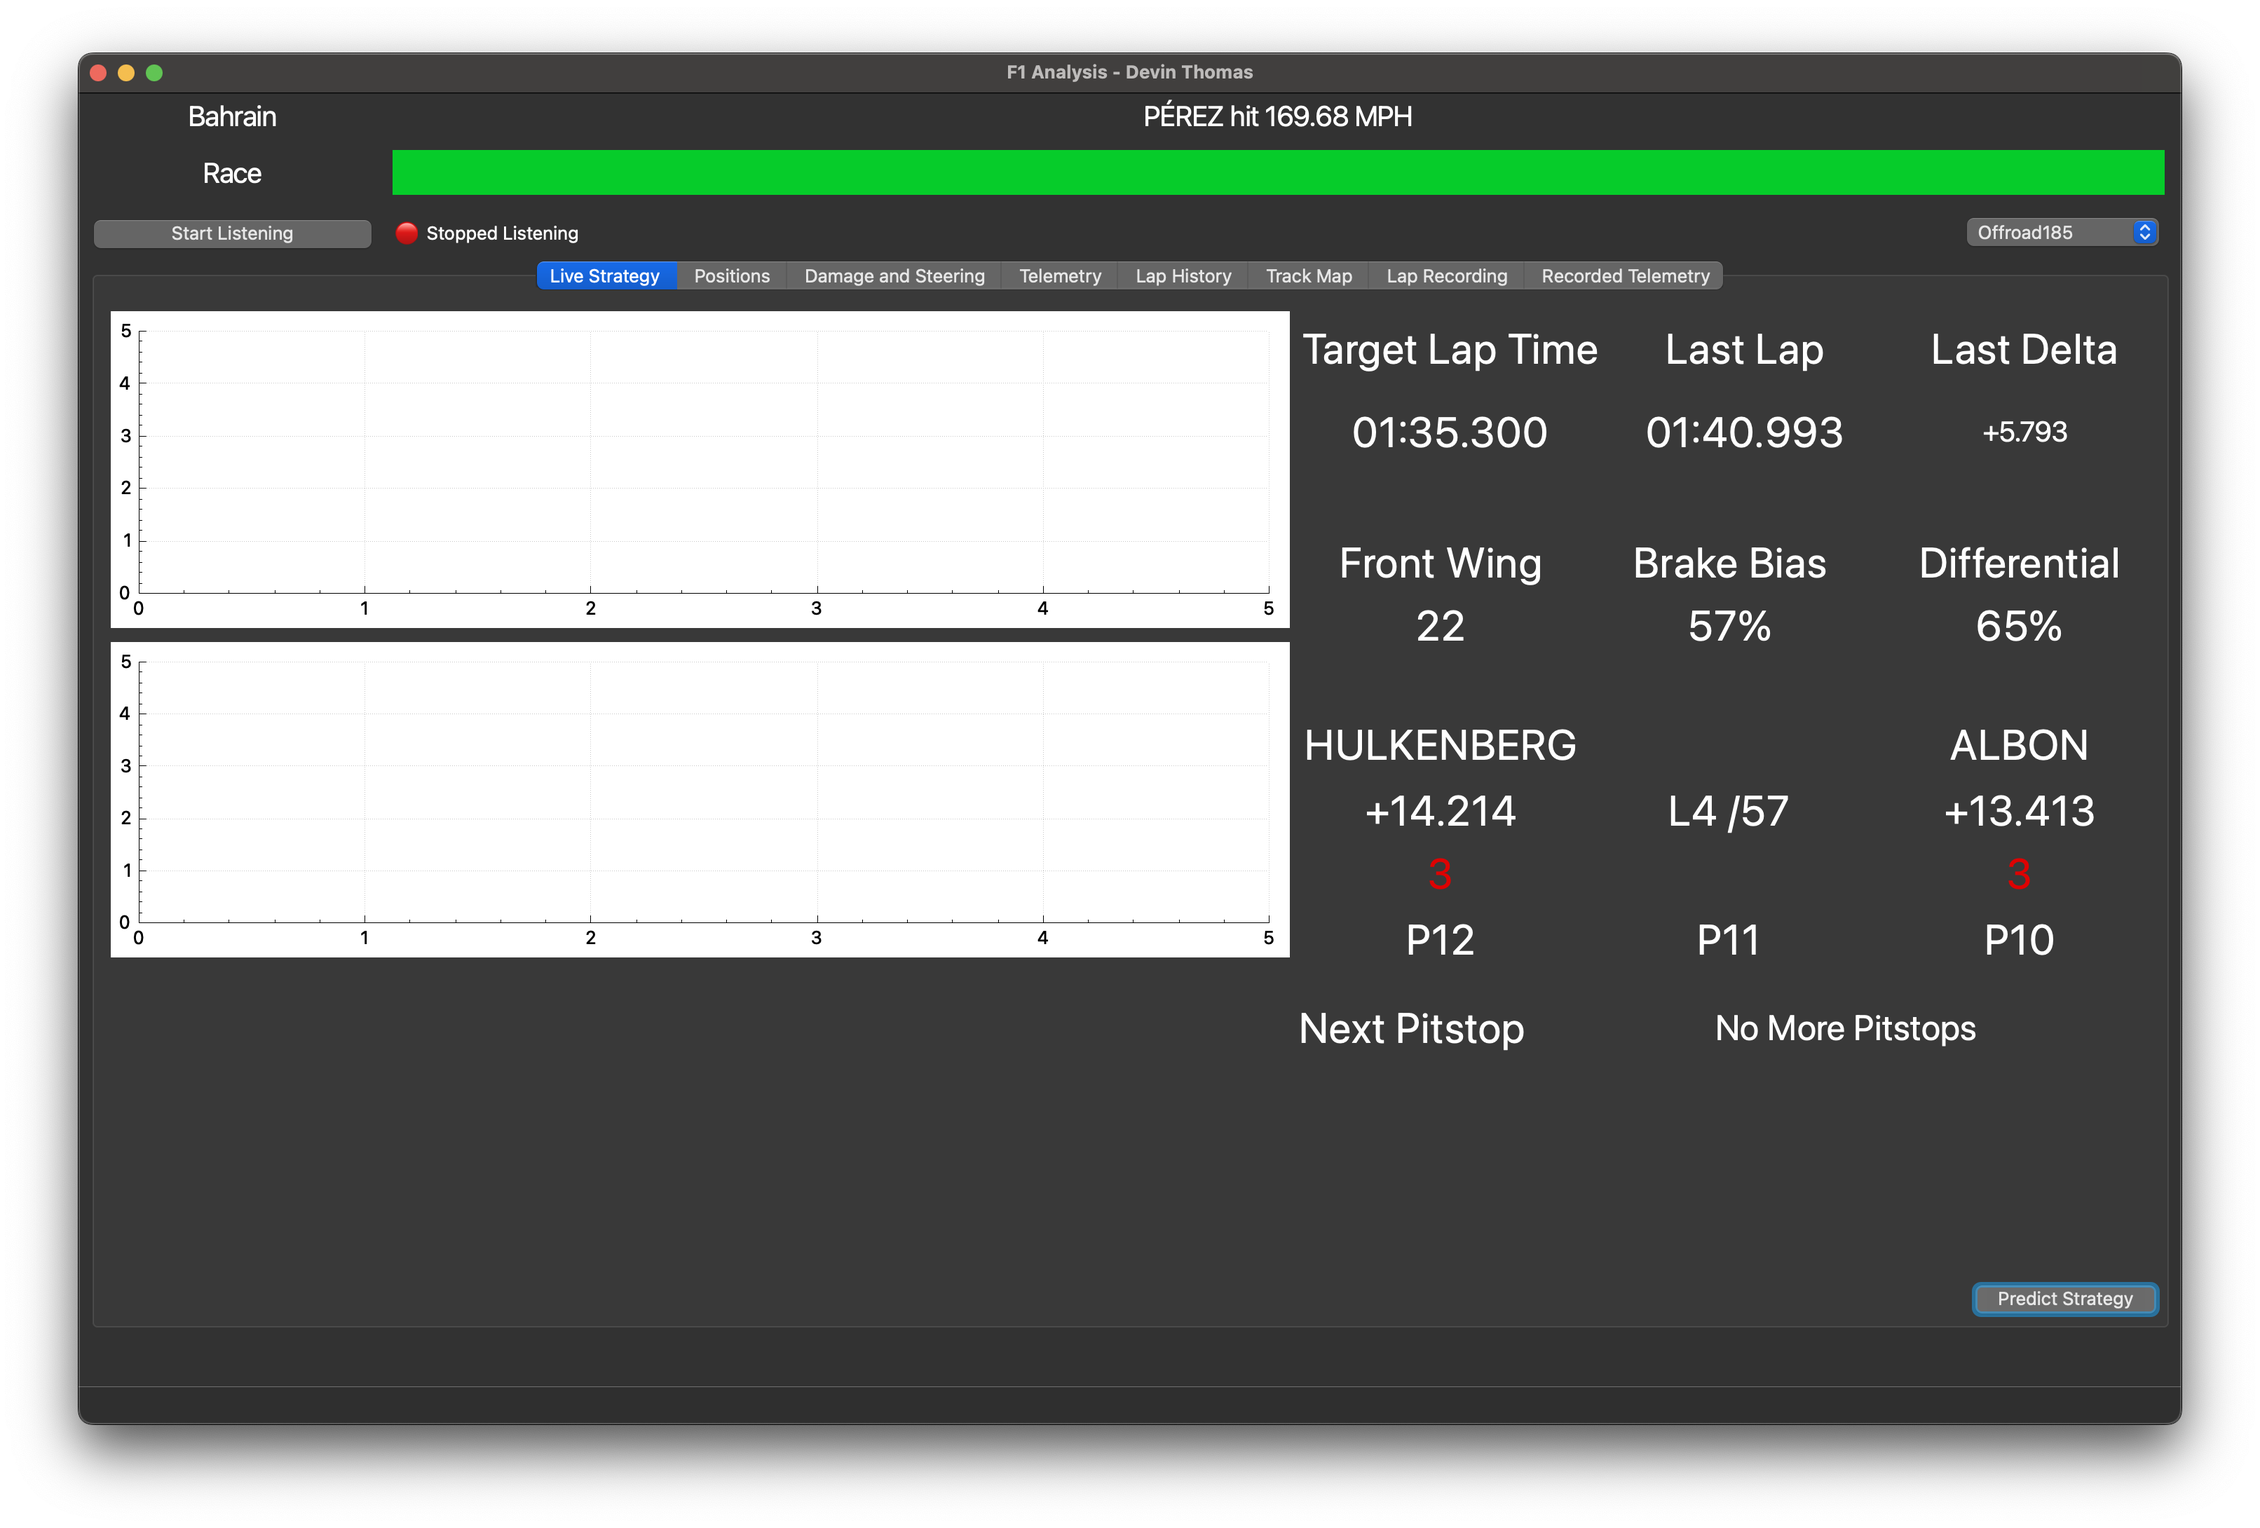
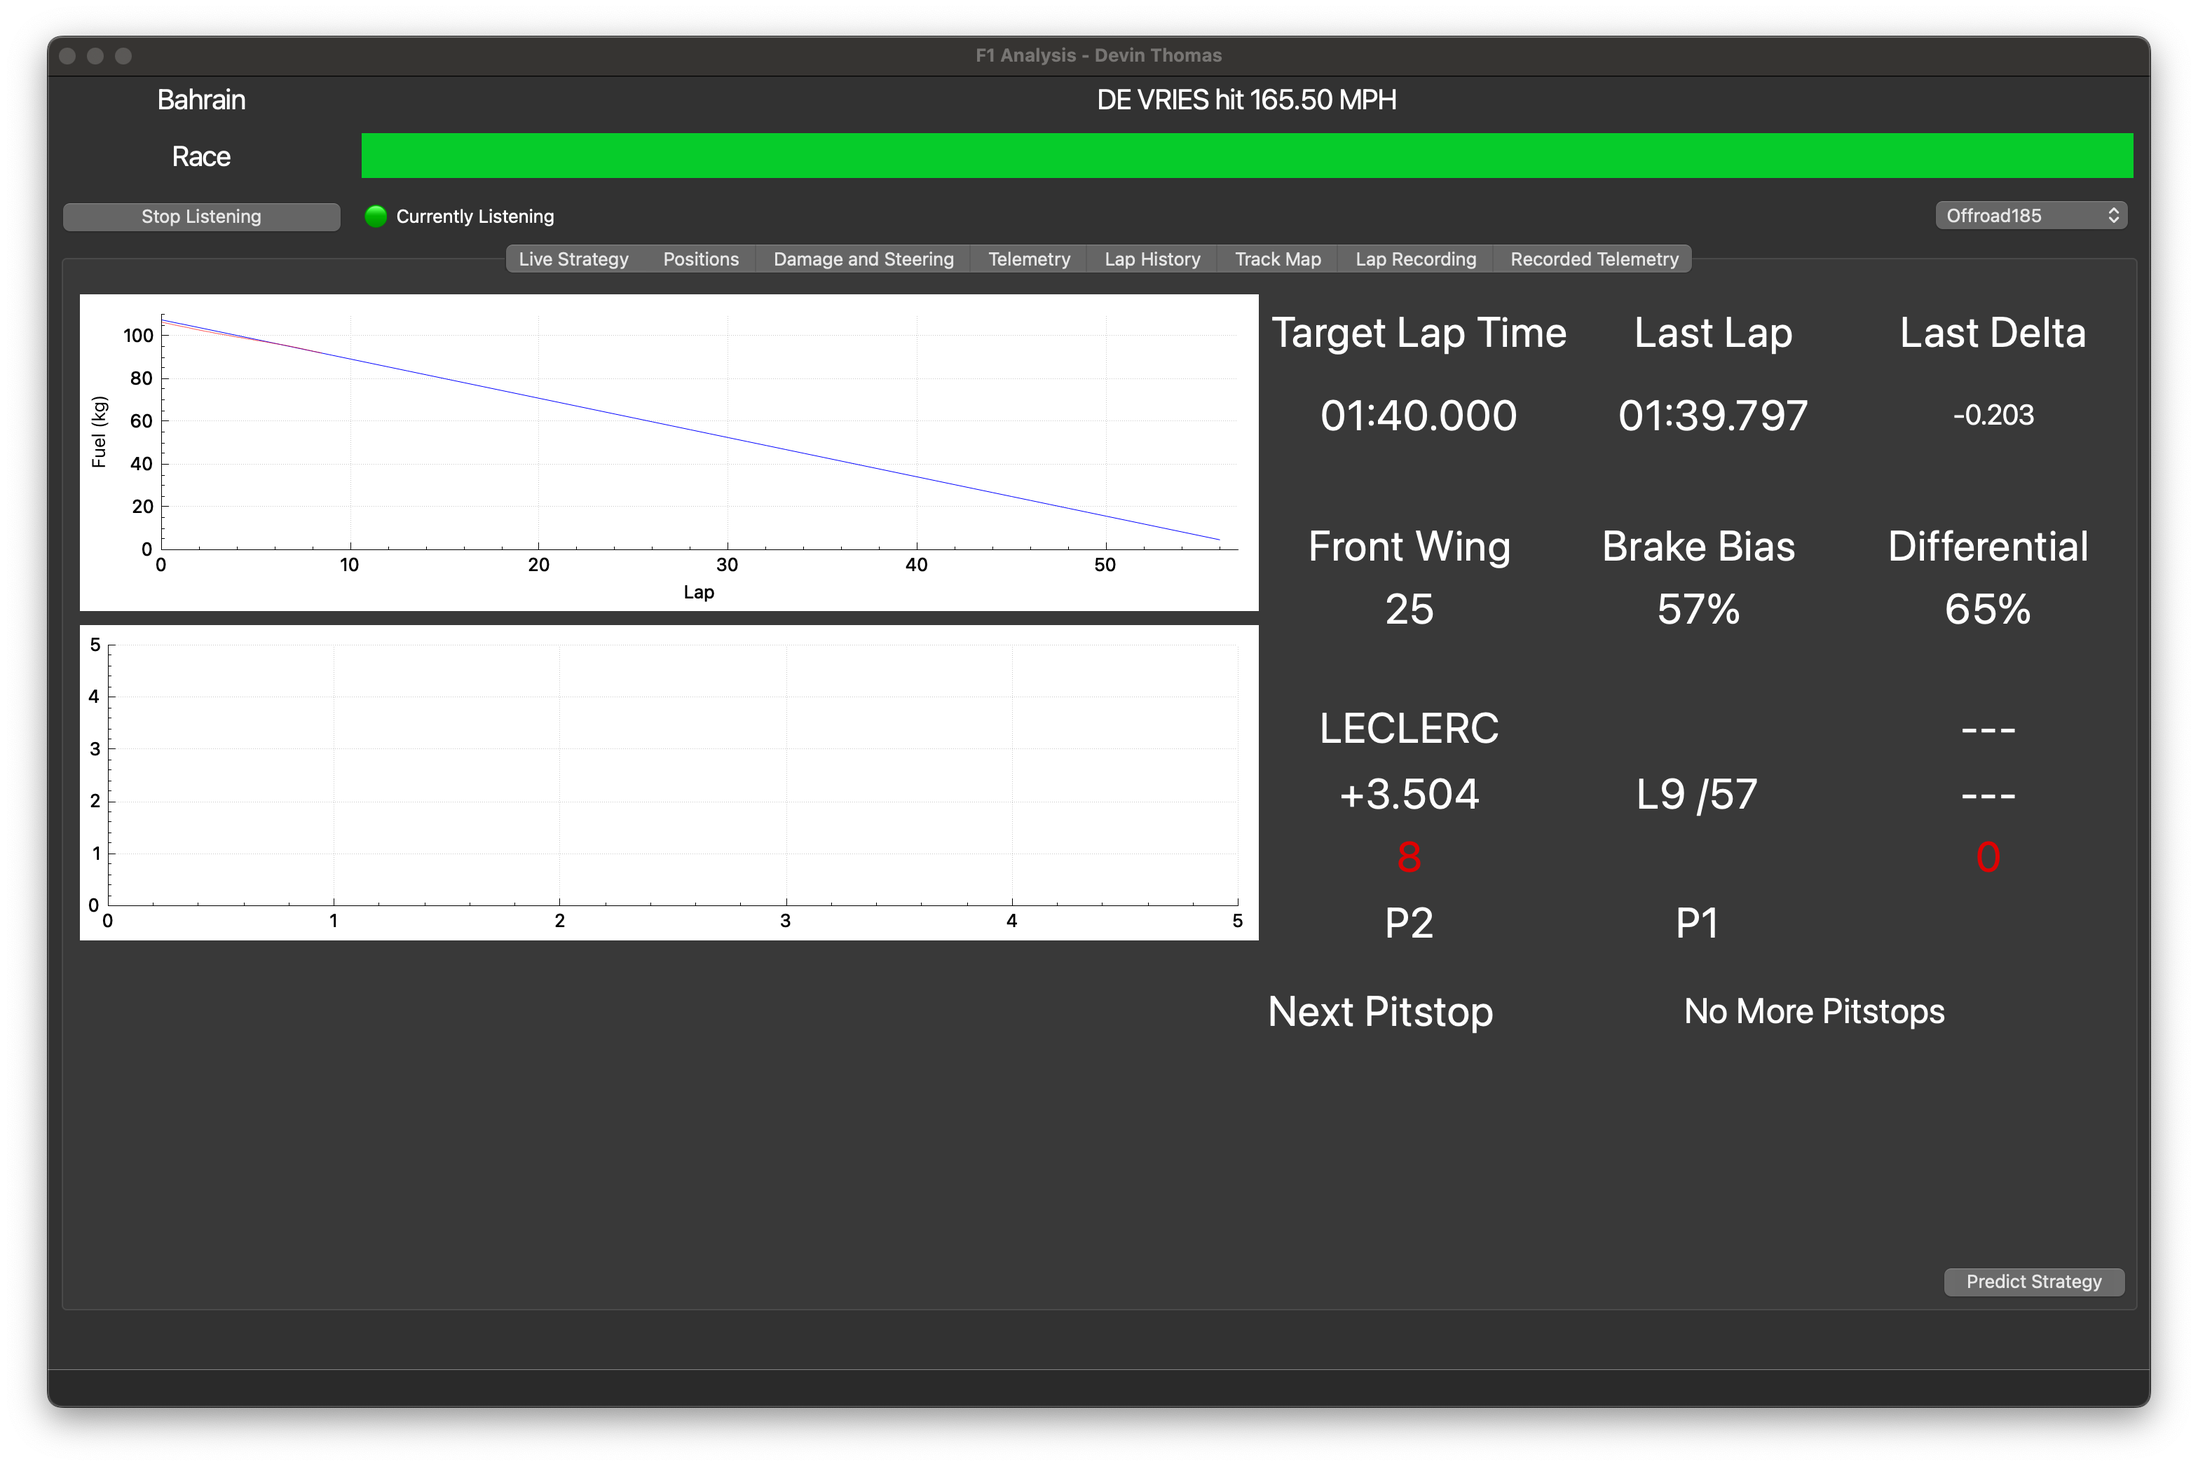
Add fuel prediction and usage plotting

diff --git a/race_strategy_prediction.cpp b/race_strategy_prediction.cpp
@@ -1,5 +1,8 @@
 #include "race_strategy_prediction.hpp"
+#include "analysis.hpp"
 #include "packets.hpp"
+
+#define MINIMUM_FUEL_LEVEL 3
 
 RaceStrategyPredictor::RaceStrategyPredictor(QObject *parent)
     : QObject{parent}
@@ -7,38 +10,112 @@ RaceStrategyPredictor::RaceStrategyPredictor(QObject *parent)
 
 }
 
-void RaceStrategyPredictor::predictStrategy(RaceWeekend raceWeekend) {
-    currentStrategy = {
-        .currentLapNumber = currentLapNumber,
-        .perLapStrategy = {
-            {
-                .actualLapTimeMS = 0,
-                .targetLapTimeMS = 95000,
+void RaceStrategyPredictor::predictStrategy(RaceWeekend raceWeekend, uint8_t raceLaps) {
+    totalRacingLaps = raceLaps;
+
+    // Initialise current strategy;
+    currentStrategy.totalRacingLaps = totalRacingLaps;
+    currentStrategy.currentLapNumber = currentLapNumber;
+    for (int i = 0; i < totalRacingLaps; i++) {
+        currentStrategy.perLapStrategy.push_back({
+            .actual = {
+                .lapTimeMS = 0,
+                .fuelInTank = 0,
                 .tyreCompound = ActualTyreCompound::C1,
             },
-            {
-                .actualLapTimeMS = 0,
-                .targetLapTimeMS = 95100,
+            .predicted = {
+                .lapTimeMS = 0,
+                .fuelInTank = 0,
                 .tyreCompound = ActualTyreCompound::C1,
-            },
-            {
-                .actualLapTimeMS = 0,
-                .targetLapTimeMS = 95200,
-                .tyreCompound = ActualTyreCompound::C2,
-            },
-            {
-                .actualLapTimeMS = 0,
-                .targetLapTimeMS = 95300,
-                .tyreCompound = ActualTyreCompound::C2,
-            },
-            {
-                .actualLapTimeMS = 0,
-                .targetLapTimeMS = 95400,
-                .tyreCompound = ActualTyreCompound::C2,
-            },
+            }
+        });
+    }
+
+
+//    mockPredictStrategy(raceWeekend);
+    simplePredictStrategy(raceWeekend);
+
+    strategyInitialised = true;
+
+    emit StrategyUpdate(currentStrategy);
+}
+
+void RaceStrategyPredictor::mockPredictStrategy(RaceWeekend raceWeekend) {
+    currentStrategy.perLapStrategy[0] = {
+        .actual = {
+            .lapTimeMS = 0,
+            .fuelInTank = 0,
+            .tyreCompound = ActualTyreCompound::C1,
+        },
+        .predicted = {
+            .lapTimeMS = 110000,
+            .fuelInTank = 10,
+            .tyreCompound = ActualTyreCompound::C1,
+        },
+    };
+
+    currentStrategy.perLapStrategy[1] = {
+        .actual = {
+            .lapTimeMS = 0,
+            .fuelInTank = 0,
+            .tyreCompound = ActualTyreCompound::C1,
+        },
+        .predicted = {
+            .lapTimeMS = 97000,
+            .fuelInTank = 9,
+            .tyreCompound = ActualTyreCompound::C2,
         }
     };
-    strategyInitialised = true;
+}
+
+void RaceStrategyPredictor::simplePredictStrategy(RaceWeekend raceWeekend) {
+
+    // Determine degradation and fuel usage for each race simulation stint generated across all practice sessions
+    std::vector<float> predictedFuelRegressions;
+
+    Practice practices[3] = {
+        raceWeekend.race_sessions().fp1(),
+        raceWeekend.race_sessions().fp2(),
+        raceWeekend.race_sessions().fp3(),
+    };
+
+    // For each practice
+    for (auto practice : practices) {
+        // For each race simulation stint
+        for (int i = 0; i < practice.race_simulation_size(); i++) {
+            Stint raceSimulation = practice.race_simulation()[i];
+
+            std::vector<double>fuelUsageValues;
+            std::vector<double>tyreDegradationValues;
+            std::vector<double>lapDistanceValues;
+
+            float l = 0; // l represents the total distance travelled in the stint
+
+            // For each lap in the stint
+            for (Lap lap : raceSimulation.lap()) {
+                // For all telemetry in the lap
+                for (Telemetry t : lap.telemetry()) {
+                    fuelUsageValues.push_back(t.fuel_in_tank());
+                    tyreDegradationValues.push_back(t.rear_left_tyre_damage());
+                    lapDistanceValues.push_back(l + t.lap_distance());
+                }
+                l += raceWeekend.track_length();
+            }
+
+            LinearRegressionResult predictedFuelRegression = calculateLinearRegression(lapDistanceValues, fuelUsageValues);
+            LinearRegressionResult tyreRegression = calculateLinearRegression(lapDistanceValues, tyreDegradationValues);
+
+            // Negate to keep value as amount of fuel used per lap
+            predictedFuelRegressions.push_back(- predictedFuelRegression.gradient * raceWeekend.track_length());
+        }
+    }
+
+    float averageFuelRegression = std::accumulate(predictedFuelRegressions.begin(), predictedFuelRegressions.end(), 0.0) / predictedFuelRegressions.size();
+
+    for (int i = 0; i < totalRacingLaps; i++) {
+        currentStrategy.perLapStrategy[i].predicted.fuelInTank = averageFuelRegression * (totalRacingLaps - i) + MINIMUM_FUEL_LEVEL;
+        currentStrategy.perLapStrategy[i].predicted.lapTimeMS = 100000;
+    }
 }
 
 void RaceStrategyPredictor::updateStrategy() {
@@ -62,7 +139,7 @@ void RaceStrategyPredictor::handleLapPacket(const PacketData &packet) {
     // Change of lap number
     if (ld.currentLapNum != currentLapNumber) {
         if (currentLapNumber > 0) {
-            currentStrategy.perLapStrategy[currentLapNumber - 1].actualLapTimeMS = ld.lastLapTimeInMS;
+            currentStrategy.perLapStrategy[currentLapNumber - 1].actual.lapTimeMS = ld.lastLapTimeInMS;
         }
 
         currentLapNumber = ld.currentLapNum;

diff --git a/mainwindow.cpp b/mainwindow.cpp
@@ -171,7 +171,15 @@ void MainWindow::setupPlots() {
     // Fuel Usage
     ui->pltFuelUsage->addGraph();
     ui->pltFuelUsage->yAxis->setLabel("Fuel (kg)");
-//    ui->pltFuelUsage->yAxis->setRange(0, 110);
+    ui->pltFuelUsage->yAxis->setRange(0, 110);
+
+    // Fuel Usage Strategy
+    ui->pltFuelUsageStrategy->addGraph();
+    ui->pltFuelUsageStrategy->yAxis->setLabel("Fuel (kg)");
+    ui->pltFuelUsageStrategy->xAxis->setLabel("Lap");
+    ui->pltFuelUsageStrategy->yAxis->setRange(0, 110);
+    ui->pltFuelUsageStrategy->addGraph();
+    ui->pltFuelUsageStrategy->graph(1)->setPen(QPen(Qt::red));
 
     // Tyre Degradation
     ui->pltTyreDegradation->addGraph();
@@ -971,14 +979,22 @@ void MainWindow::onDriverAheadAndBehindUpdate(LiveStrategyData liveStrategyData)
     ui->lblDriverBehindPosition->setText(QString::fromStdString(liveStrategyData.driverBehindPosition));
     ui->lblLastLapTimeStrategy->setText(QString::fromStdString(liveStrategyData.lastLap));
     ui->lblCurrentPositionStrategy->setText(QString::fromStdString(liveStrategyData.currentPosition));
+
+
+    fuelUsageStrategyPlotValues.append(liveStrategyData.fuelInTank);
+    lapStrategyPlotValues.append(liveStrategyData.lapDistance / trackLength);
+
+    ui->pltFuelUsageStrategy->graph(1)->setData(lapStrategyPlotValues, fuelUsageStrategyPlotValues);
+    ui->pltFuelUsage->rescaleAxes();
+    ui->pltFuelUsageStrategy->replot();
 }
 
 void MainWindow::onStrategyUpdate(Strategy newStrategy) {
-    ui->lblCurrentLapNumberStrategy->setText(QString::fromStdString("L" + std::to_string(newStrategy.currentLapNumber) + " /" + std::to_string(totalLaps)));
-    ui->lblTargetLapTimeStrategy->setText(QString::fromStdString(formatLapTimeMS(newStrategy.perLapStrategy[newStrategy.currentLapNumber - 1].targetLapTimeMS)));
+    ui->lblCurrentLapNumberStrategy->setText(QString::fromStdString("L" + std::to_string(newStrategy.currentLapNumber) + " /" + std::to_string(newStrategy.totalRacingLaps)));
+    ui->lblTargetLapTimeStrategy->setText(QString::fromStdString(formatLapTimeMS(newStrategy.perLapStrategy[newStrategy.currentLapNumber - 1].predicted.lapTimeMS)));
 
     // Delta of last lap to last lap target - must be at least on 2nd lap
-    if (newStrategy.currentLapNumber >= 2) ui->lblDeltaTimeStrategy->setText(QString::fromStdString(formatDelta(newStrategy.perLapStrategy[newStrategy.currentLapNumber - 2].targetLapTimeMS, newStrategy.perLapStrategy[newStrategy.currentLapNumber - 2].actualLapTimeMS)));
+    if (newStrategy.currentLapNumber >= 2) ui->lblDeltaTimeStrategy->setText(QString::fromStdString(formatDelta(newStrategy.perLapStrategy[newStrategy.currentLapNumber - 2].predicted.lapTimeMS, newStrategy.perLapStrategy[newStrategy.currentLapNumber - 2].actual.lapTimeMS)));
 
     // Update next pitstop
     uint8_t nextPitstopLap = newStrategy.nextPitStop();
@@ -989,7 +1005,7 @@ void MainWindow::onStrategyUpdate(Strategy newStrategy) {
         ui->lblNextPitstopOnLap->setText("No More Pitstops");
         ui->lblNextPitstopLapsLeft->setText("");
     } else {
-        ui->lblNextPitstopTyre->setText(QString::fromStdString(getActualTyreName(pitLapStrategy.tyreCompound)));
+        ui->lblNextPitstopTyre->setText(QString::fromStdString(getActualTyreName(pitLapStrategy.predicted.tyreCompound)));
         ui->lblNextPitstopOnLap->setText("On Lap " + QString::number(nextPitstopLap));
 
         // + 1 because we want to include the current lap as a lap to complete
@@ -1000,6 +1016,20 @@ void MainWindow::onStrategyUpdate(Strategy newStrategy) {
             ui->lblNextPitstopLapsLeft->setText(QString::number(lapsLeft) + " Laps Left");
         }
     }
+
+    // Update fuel usage
+    QVector<double> fuelInTank;
+    QVector<double> laps;
+
+    for (int i = 0; i < newStrategy.perLapStrategy.size(); i++) {
+        fuelInTank.append(newStrategy.perLapStrategy[i].predicted.fuelInTank);
+        laps.append(i);
+    }
+
+    ui->pltFuelUsageStrategy->graph(0)->setData(laps, fuelInTank);
+    ui->pltFuelUsageStrategy->xAxis->setRange(0, newStrategy.perLapStrategy.size());
+    ui->pltFuelUsageStrategy->replot();
+
 }
 
 
@@ -1491,5 +1521,5 @@ void MainWindow::on_actionUDP_Settings_triggered()
 }
 
 void MainWindow::on_btnPredictStrategy_clicked() {
-    updater->raceStrategyPredictor.predictStrategy(loadedRaceWeekend);
+    updater->raceStrategyPredictor.predictStrategy(loadedRaceWeekend, totalLaps);
 }

diff --git a/race_strategy_prediction.hpp b/race_strategy_prediction.hpp
@@ -6,15 +6,22 @@
 #include "enums.hpp"
 #include <QObject>
 
-
-struct LapStrategy {
-    uint32_t actualLapTimeMS;
-    uint32_t targetLapTimeMS;
+struct LapDetails {
+    uint32_t lapTimeMS;
+    float fuelInTank;
     ActualTyreCompound tyreCompound;
+    // Tyre degradation
+};
+
+struct LapStrategy
+{
+    LapDetails actual;
+    LapDetails predicted;
 };
 
 struct Strategy
 {
+    uint8_t totalRacingLaps;
     uint8_t currentLapNumber;
     std::vector<LapStrategy> perLapStrategy;
 
@@ -23,7 +30,7 @@ struct Strategy
 
         if (lapNumber == 0) return false;
 
-        return (perLapStrategy[lapNumber].tyreCompound != perLapStrategy[lapNumber + 1].tyreCompound);
+        return (perLapStrategy[lapNumber].predicted.tyreCompound != perLapStrategy[lapNumber + 1].predicted.tyreCompound);
     }
 
     uint8_t nextPitStop() {
@@ -55,10 +62,15 @@ public:
     /**
      * @brief Predict the initial race strategy using the race weekend data generated
      * during the practice sessions
-     * 
-     * @param[in] raceWeekend The race weekend data loaded from the protobuf file 
+     *
+     * @param[in] raceWeekend The race weekend data loaded from the protobuf file
+     * @param[in] raceLaps  The number of laps to be completed in the race
      */
-    void predictStrategy(RaceWeekend);
+    void predictStrategy(RaceWeekend, uint8_t);
+
+    void mockPredictStrategy(RaceWeekend);
+    void simplePredictStrategy(RaceWeekend);
+
     
     /**
      * @brief Update the current strategy using the live data coming from the game
@@ -75,6 +87,7 @@ public:
     };
 
 private:
+    uint8_t totalRacingLaps = 0;
     bool strategyInitialised = false;
     Strategy currentStrategy;
     uint8_t currentLapNumber;

diff --git a/udp_updater.cpp b/udp_updater.cpp
@@ -189,7 +189,8 @@ void UDPUpdater::handleLapPacket(const PacketData& packet){
         .driverBehindPosition = "",
         .lastLap = "0:00.000",
         .currentPosition = "P1",
-        .currentLapNumber = "",
+        .lapDistance = 0,
+        .fuelInTank = 0,
     };
 
     // Send data for positions table
@@ -217,7 +218,8 @@ void UDPUpdater::handleLapPacket(const PacketData& packet){
 
         if (i == driverSelected) {
             liveStrategyData.lastLap = formatLapTimeMS(ld.lastLapTimeInMS);
-            liveStrategyData.currentLapNumber = std::to_string(ld.currentLapNum);
+            liveStrategyData.lapDistance = ld.lapDistance + ((ld.currentLapNum - 1) * trackLength) ;
+            liveStrategyData.fuelInTank = lastFuelInTank;
         }
 
         rows.push_back(row);
@@ -512,6 +514,9 @@ void UDPUpdater::handleCarStatusPacket(const PacketData& packet){
     };
 
     emit WheelStatusUpdate(wheelStatus);
+
+    // For use when sending the LiveStrategyData in the Laps Packet
+    lastFuelInTank = statusData.carStatusData[packet.header.playerCarIndex].fuelInTank;
 }
 
 void UDPUpdater::handleFinalClassificationPacket(const PacketData& packet){}

diff --git a/udp_updater.h b/udp_updater.h
@@ -37,13 +37,9 @@ public:
 
     bool participantsReceived = false;
     uint8_t driverSelected = 0;
+
     RaceRecorder raceRecorder;
     RaceStrategyPredictor raceStrategyPredictor;
-    std::vector<PacketHandlerInterface*> packetConsumers = {
-        this,
-        &raceRecorder,
-        &raceStrategyPredictor,
-    };
 
 private:
 
@@ -67,6 +63,14 @@ private:
 
     // Map of carIdx -> Car Setup
     std::array<CarSetupData, 22> driverCarSetup;
+
+    std::vector<PacketHandlerInterface*> packetConsumers = {
+        this,
+        &raceRecorder,
+        &raceStrategyPredictor,
+    };
+
+    float lastFuelInTank = 0;
 
 signals:
     void ParticipantsUpdate(Participants);

diff --git a/mainwindow.h b/mainwindow.h
@@ -71,6 +71,9 @@ private:
     LinearRegressionResult predictedFuelRegression;
     void updateFuelPrediction();
 
+    QVector<double> fuelUsageStrategyPlotValues;
+    QVector<double> lapStrategyPlotValues;
+
 protected:
     void timerEvent(QTimerEvent *event);
 

diff --git a/gui_types.hpp b/gui_types.hpp
@@ -211,7 +211,8 @@ struct LiveStrategyData {
     std::string driverBehindPosition;
     std::string lastLap;
     std::string currentPosition;
-    std::string currentLapNumber;
+    float lapDistance;
+    float fuelInTank;
 };
 
 #endif // GUI_TYPES_HPP
